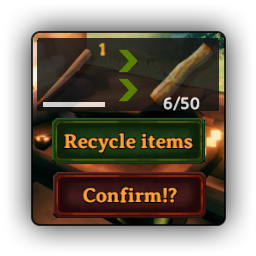
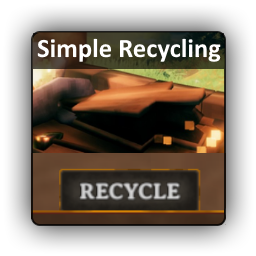
final bump recycler/0.0.8

diff --git a/ABearCodes.Valheim.SimpleRecycling/PluginSettings.cs b/ABearCodes.Valheim.SimpleRecycling/PluginSettings.cs
@@ -34,7 +34,8 @@ namespace ABearCodes.Valheim.SimpleRecycling
 
             // UI
             ContainerRecyclingEnabled = config.Bind("UI", "ContainerRecyclingEnabled",
-                true, "If enabled, the mod will display the container recycling button");
+                false, "If enabled, the mod will display the container recycling button");
+            
             NotifyOnSalvagingImpediments = config.Bind("UI", "NotifyOnSalvagingImpediments", true,
                 "If enabled and recycling a specific item runs into any issues, the mod will print a message\n" +
                 "in the center of the screen (native Valheim notification). At the time of implementation,\n" +
@@ -42,8 +43,10 @@ namespace ABearCodes.Valheim.SimpleRecycling
                 " - not enough free slots in the inventory to place the resulting resources\n" +
                 " - player does not know the recipe for the item\n" +
                 " - if enabled, cases when `PreventZeroResourceYields` kicks in and prevent the crafting");
-            EnableExperimentalCraftingTabUI = config.Bind("UI", "EnableExperimentalCraftingTabUI", false,
-                "If enabled, will display the experimental work in progress crafting tab UI");
+            
+            EnableExperimentalCraftingTabUI = config.Bind("UI", "EnableExperimentalCraftingTabUI", true,
+                "If enabled, will display the experimental work in progress crafting tab UI\n" +
+                "Enabled by default.");
             
             // debug
             DebugAlwaysDumpAnalysisContext = config.Bind("zDebug", "DebugAlwaysDumpAnalysisContext", false,

diff --git a/ABearCodes.Valheim.SimpleRecycling/UI/InventoryGuiPatches.cs b/ABearCodes.Valheim.SimpleRecycling/UI/InventoryGuiPatches.cs
@@ -1,4 +1,5 @@
 using System;
+using ABearCodes.Valheim.SimpleRecycling.Recycling;
 using HarmonyLib;
 using UnityEngine;
 using UnityEngine.UI;
@@ -23,6 +24,14 @@ namespace ABearCodes.Valheim.SimpleRecycling.UI
             if (Plugin.RecyclingTabButtonHolder.InRecycleTab()) return false;
             return true;
         }
+        [HarmonyPrefix]
+        [HarmonyPatch(typeof(InventoryGui), "Hide")]
+        static void OnHideSetToCraftingTab(InventoryGui __instance)
+        {
+            if (!Plugin.RecyclingTabButtonHolder.InRecycleTab()) return;
+            InventoryGui.instance.OnTabCraftPressed();
+        }
+        
         [HarmonyPostfix]
         [HarmonyPatch(typeof(InventoryGui), "UpdateCraftingPanel")]
         static void UpdateCraftingPanelDetourOnOtherTabsEnableRecyclingButton(InventoryGui __instance)

diff --git a/ABearCodes.Valheim.SimpleRecycling/UI/StationRecyclingTabHolder.cs b/ABearCodes.Valheim.SimpleRecycling/UI/StationRecyclingTabHolder.cs
@@ -13,9 +13,6 @@ namespace ABearCodes.Valheim.SimpleRecycling.UI
     {
         private GameObject _recyclingTabButtonGameObject;
         private Button _recyclingTabButtonComponent;
-        private bool _prefired = false;
-        private Text _textComponent;
-        private Image _imageComponent;
         private List<RecyclingAnalysisContext> _recyclingAnalysisContexts = new List<RecyclingAnalysisContext>();
 
         private void Start()

diff --git a/ABearCodes.Valheim.SimpleRecycling/ThunderStoreResources/README.md b/ABearCodes.Valheim.SimpleRecycling/ThunderStoreResources/README.md
@@ -1,9 +1,13 @@
 
 # Simple Recycler
 
-![demo](https://i.imgur.com/91ILtUh.png)
+![new ui](https://i.imgur.com/9ZyxBN8.png)
 
-Adds a button that recycles (uncrafts) items in any container. 
+Adds a tab to the crafting station that recycles (uncrafts) items from player's inventory. 
+
+Previously this mod operated via a button placed on containers. Both are still in and can be enabled via settings. 
+
+![demo](https://i.imgur.com/91ILtUh.png)
 
 ### Key points
 
@@ -100,8 +104,7 @@ DebugAlwaysDumpAnalysisContext = false
 
 ### 0.0.8
 
-- added new experimental UI that adds a new tab to the crafting station. Enabled via settings by setting `EnableExperimentalCraftingTabUI` to true
-    ![new ui](https://i.imgur.com/9ZyxBN8.png)
+- added new experimental UI that adds a new tab to the crafting station. Enabled by default.
 
 ### 0.0.7
 
